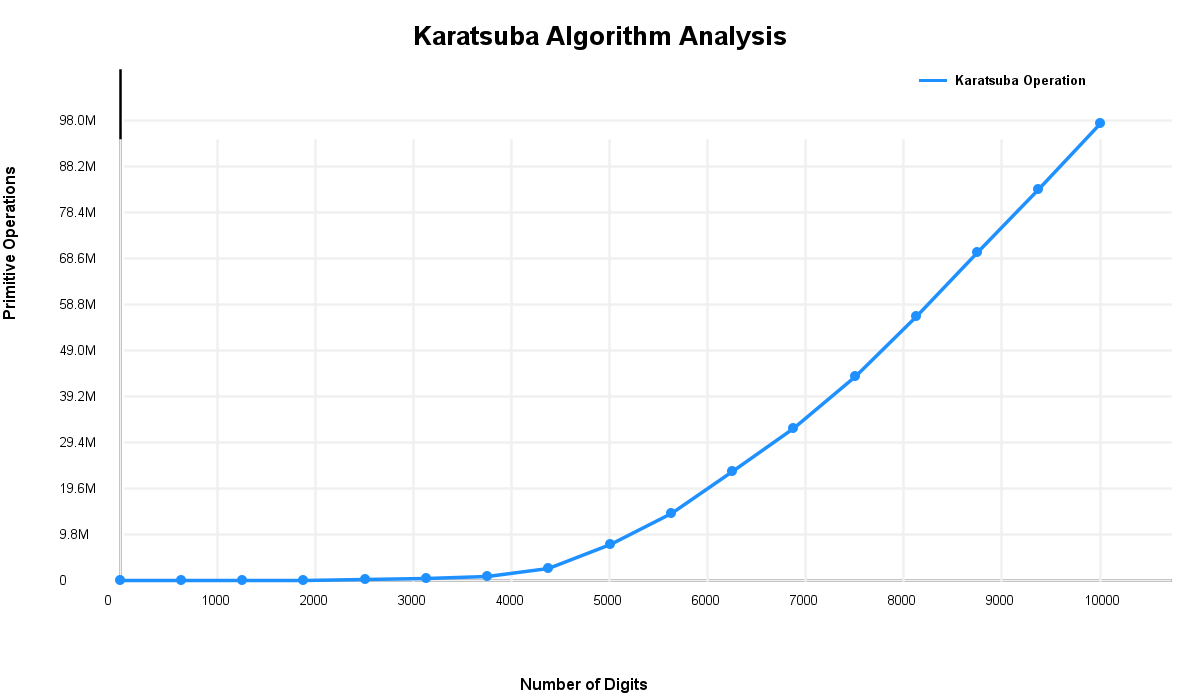
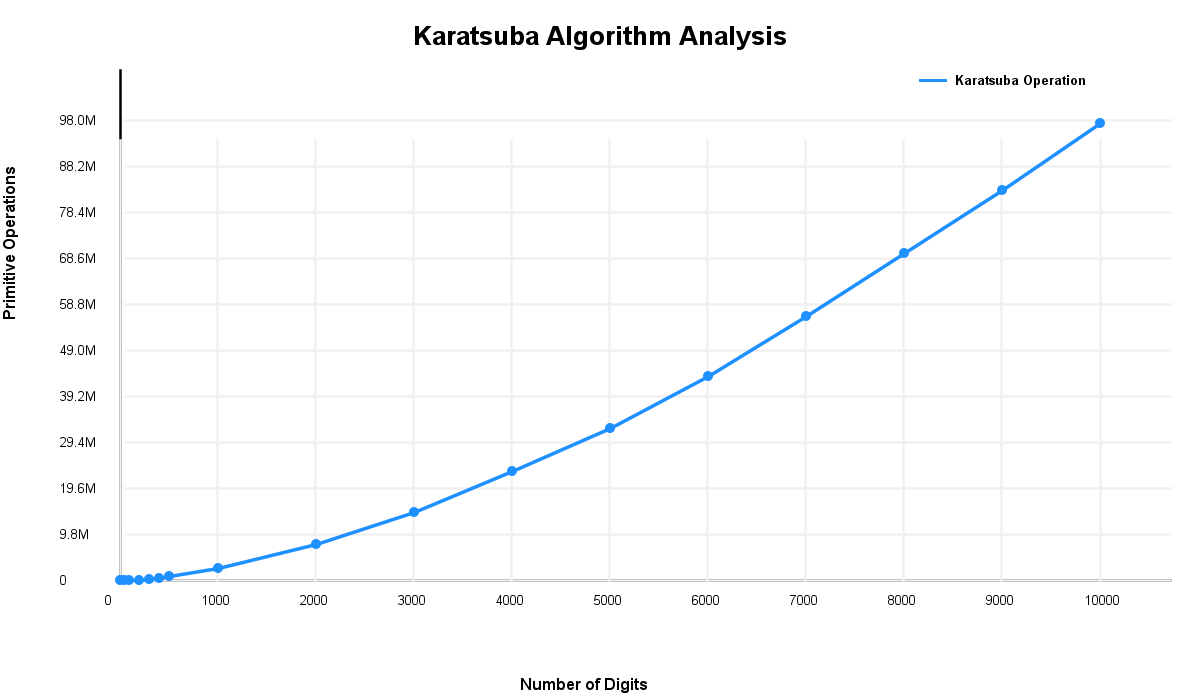
change plotting method

diff --git a/src/karatsuba/Karatsuba.java b/src/karatsuba/Karatsuba.java
@@ -215,8 +215,10 @@ public class Karatsuba {
         g.setStroke(new BasicStroke(3.5f));
         g.setColor(new Color(30, 144, 255));
         for (int i = 0; i < n.length - 1; i++) {
-            int x1 = PADDING + (i * (WIDTH - PADDING - 100) / (n.length - 1));
-            int x2 = PADDING + ((i + 1) * (WIDTH - PADDING - 100) / (n.length - 1));
+            double pos1 = n[i] / 10000.0;
+            double pos2 = n[i + 1] / 10000.0;
+            int x1 = PADDING + (int)(pos1 * (WIDTH - PADDING - 100));
+            int x2 = PADDING + (int)(pos2 * (WIDTH - PADDING - 100));
             int y1 = (HEIGHT - PADDING) - (int)(ops[i] * (HEIGHT - 2 * PADDING) / maxVal);
             int y2 = (HEIGHT - PADDING) - (int)(ops[i + 1] * (HEIGHT - 2 * PADDING) / maxVal);
             g.drawLine(x1, y1, x2, y2);
@@ -224,7 +226,8 @@ public class Karatsuba {
 
         // Draw data points
         for (int i = 0; i < n.length; i++) {
-            int x = PADDING + (i * (WIDTH - PADDING - 100) / (n.length - 1));
+            double position = n[i] / 10000.0;
+            int x = PADDING + (int)(position * (WIDTH - PADDING - 100));
             int y = (HEIGHT - PADDING) - (int)(ops[i] * (HEIGHT - 2 * PADDING) / maxVal);
             g.setColor(new Color(30, 144, 255));
             g.fillOval(x - 5, y - 5, 10, 10);